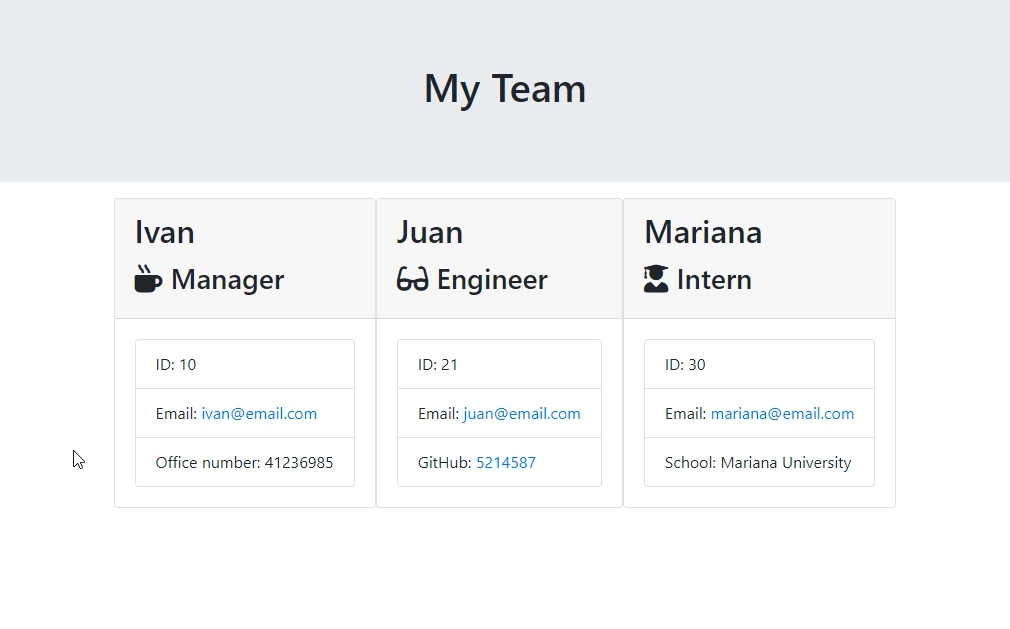
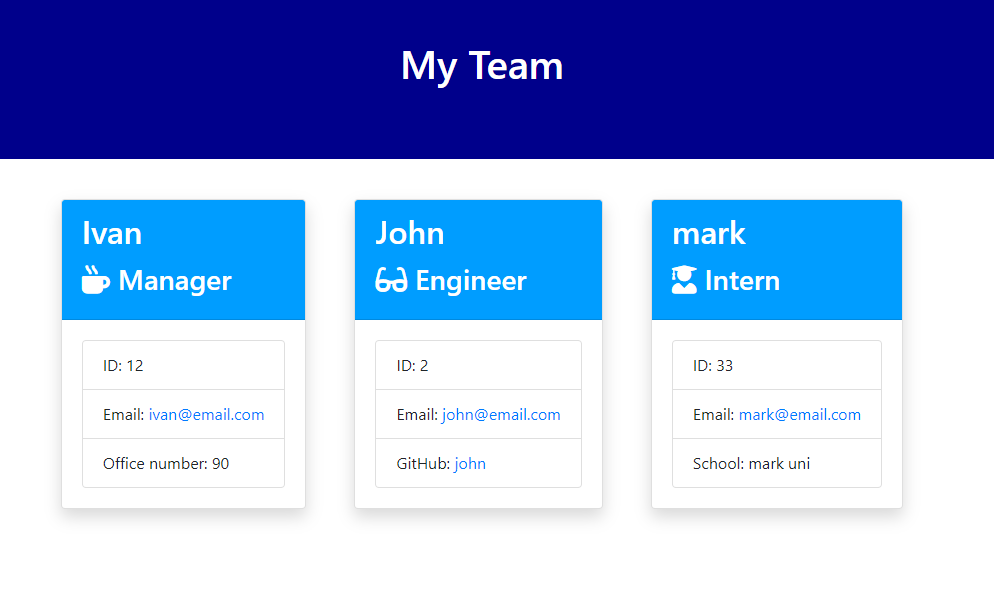
changed styling for final team result

diff --git a/output/team.html b/output/team.html
@@ -15,7 +15,7 @@
 <body>
     <div class="container-fluid">
         <div class="row">
-            <div class="col-12 jumbotron mb-3 team-heading">
+            <div class="col-12 jumbotron mb-3 team-heading" style="background-color:darkblue; color: white;">
                 <h1 class="text-center">My Team</h1>
             </div>
         </div>
@@ -23,7 +23,7 @@
     <div class="container">
         <div class="row">
             <div class="team-area col-12 d-flex justify-content-center">
-                <div class="card employee-card">
+                <div class="card employee-card m-4 shadow">
     <div class="card-header">
         <h2 class="card-title">Ivan</h2>
         <h3 class="card-title"><i class="fas fa-mug-hot mr-2"></i>Manager</h3>
@@ -36,7 +36,7 @@
         </ul>
     </div>
 </div>
-<div class="card employee-card">
+<div class="card employee-card m-4 shadow">
     <div class="card-header">
         <h2 class="card-title">John</h2>
         <h3 class="card-title"><i class="fas fa-glasses mr-2"></i>Engineer</h3>
@@ -49,7 +49,7 @@
         </ul>
     </div>
 </div>
-<div class="card employee-card">
+<div class="card employee-card m-4 shadow">
     <div class="card-header">
         <h2 class="card-title">mark</h2>
         <h3 class="card-title"><i class="fas fa-user-graduate mr-2"></i>Intern</h3>

diff --git a/output/style.css b/output/style.css
@@ -1,0 +1,6 @@
+
+
+.card-header {
+    background-color:rgb(0, 157, 255); 
+    color: white;
+}
